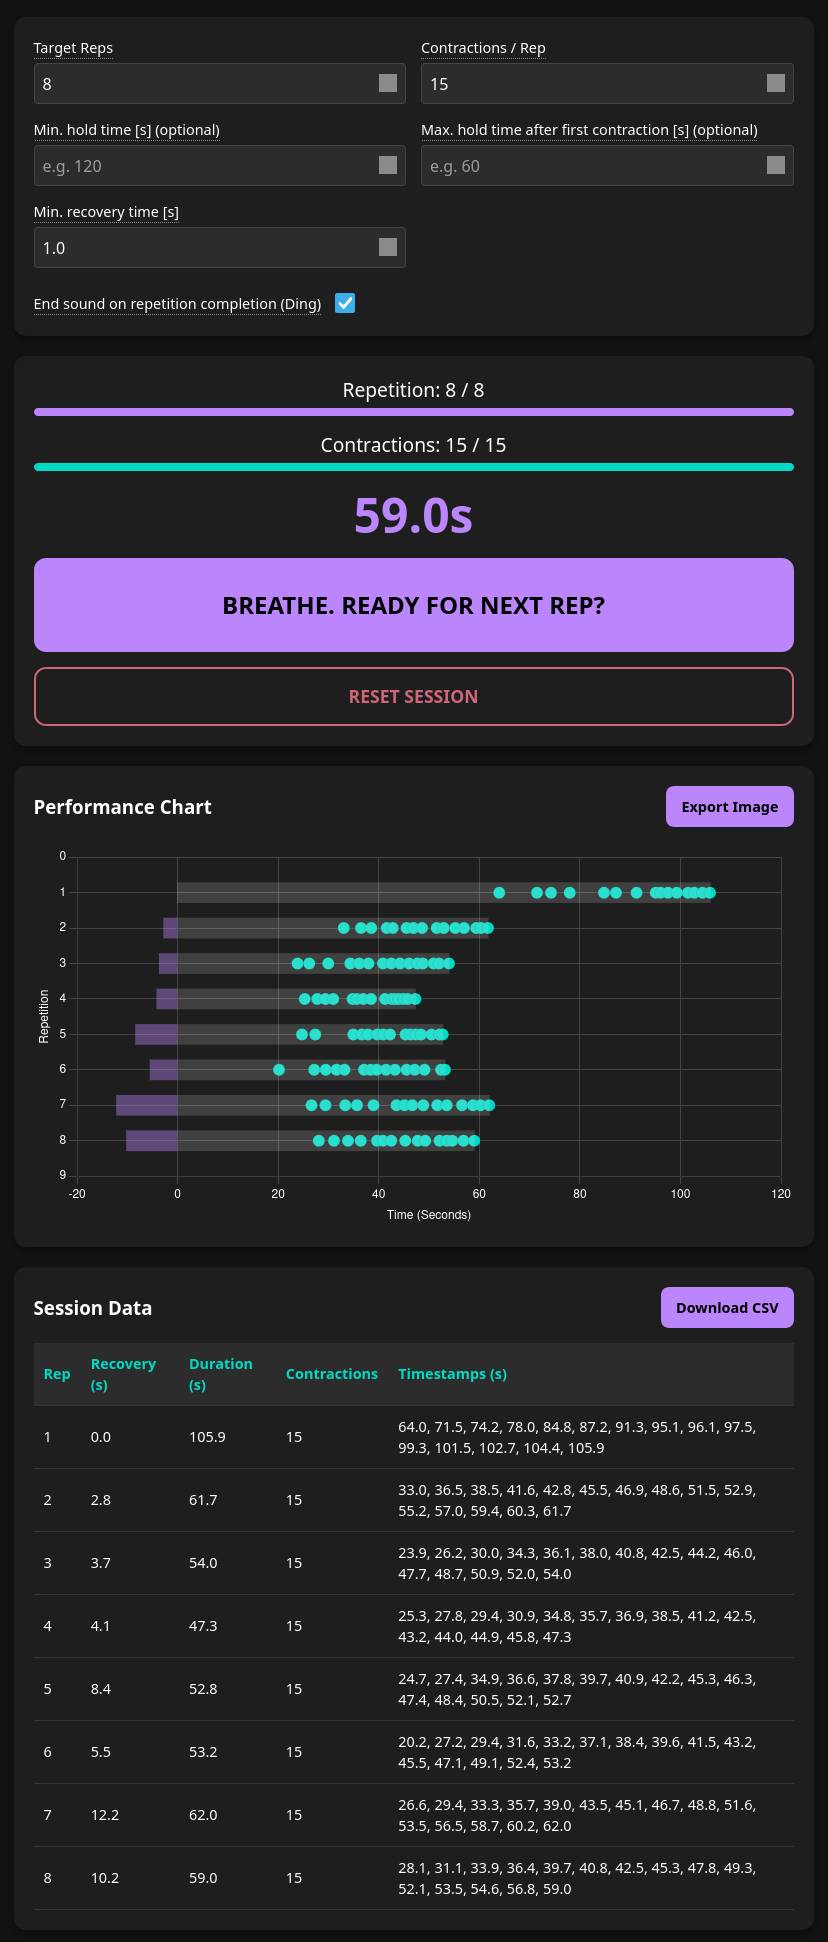
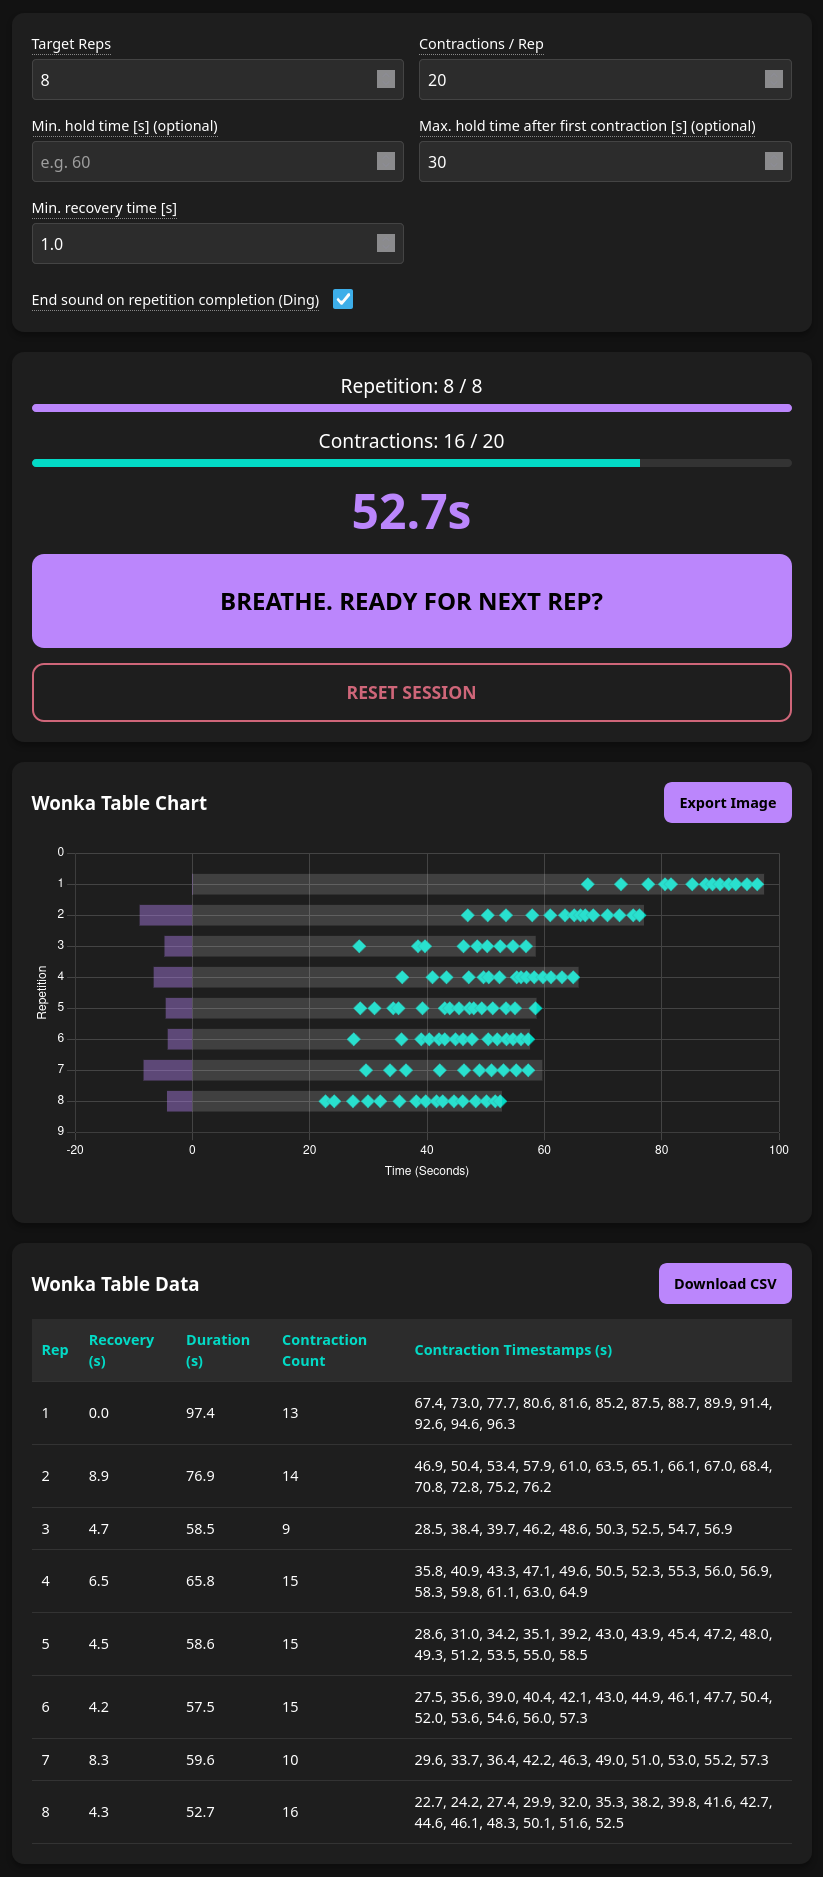
Mark contractions with diamonds; Include time in filenames; Let minimum hold time dominate max hold time after first contraction

diff --git a/index.html b/index.html
@@ -228,11 +228,11 @@
         <input type="number" id="target-contractions" value="25" min="1">
       </div>
       <div class="setting-group">
-        <label for="min-hold-time" class="help-label" title="The repetition won't automatically end until this duration is reached, even if you hit your target contractions.">Min. hold time [s] (optional)</label>
+        <label for="min-hold-time" class="help-label" title="The repetition won't automatically end until this duration is reached, even if you hit your target contractions or the max hold time after the first contraction has passed.">Min. hold time [s] (optional)</label>
         <input type="number" id="min-hold-time" placeholder="e.g. 60">
       </div>
       <div class="setting-group">
-        <label for="max-post-first" class="help-label" title="The repetition will automatically end this many seconds after your first logged contraction.">Max. hold time after first contraction [s] (optional)</label>
+        <label for="max-post-first" class="help-label" title="The repetition will automatically end this many seconds after your first logged contraction (unless the minimum hold time has not been met yet).">Max. hold time after first contraction [s] (optional)</label>
         <input type="number" id="max-post-first" placeholder="e.g. 60">
       </div>
       <div class="setting-group">
@@ -257,22 +257,24 @@
       <div class="timer" id="timer-display">0.0s</div>
       <div class="button-group">
         <button id="main-btn" class="btn-idle">Start Rep 1</button>
-        <button id="end-rep-btn" style="display: none;">End</button>
+        <button id="end-rep-btn" style="display: none;">End Rep</button>
       </div>
       <button id="reset-btn" style="display: none;">Reset Session</button>
     </div>
 
     <div class="card">
       <div style="display: flex; justify-content: space-between; align-items: center; margin-bottom: 10px;">
-        <h3 style="margin: 0;">Performance Chart</h3>
+        <h3 style="margin: 0;">Wonka Table Chart</h3>
         <button id="export-chart-btn" class="action-btn">Export Image</button>
       </div>
-      <canvas id="chart"></canvas>
+      <div id="chart-container" style="position: relative; width: 100%; height: 300px;">
+        <canvas id="chart"></canvas>
+      </div>
     </div>
 
     <div class="card">
       <div style="display: flex; justify-content: space-between; align-items: center;">
-        <h3 style="margin: 0;">Session Data</h3>
+        <h3 style="margin: 0;">Wonka Table Data</h3>
         <button id="download-csv-btn" class="action-btn">Download CSV</button>
       </div>
       <div class="data-table-container">
@@ -282,8 +284,8 @@
               <th>Rep</th>
               <th>Recovery (s)</th>
               <th>Duration (s)</th>
-              <th>Contractions</th>
-              <th>Timestamps (s)</th>
+              <th>Contraction Count</th>
+              <th>Contraction Timestamps (s)</th>
             </tr>
           </thead>
           <tbody>
@@ -409,6 +411,7 @@
         indexAxis: 'y', // Makes the bar chart render horizontally
         animation: false, // Disables all jumping/redrawing animations
         responsive: true,
+        maintainAspectRatio: false, // Allows dynamic vertical scaling for mobile
         scales: {
           x: { 
             type: 'linear',
@@ -501,7 +504,7 @@
 
     // Event Listener for CSV Download
     elements.downloadCsvBtn.addEventListener('click', () => {
-      let csv = "Repetition,Recovery (s),Duration (s),Contraction Count,Contraction Times (s)\n";
+      let csv = "Repetition,Recovery (s),Duration (s),Contraction Count,Contraction Timestamps (s)\n";
       
       sessionDurations.forEach((duration, index) => {
         const repData = sessionData[index] || [];
@@ -517,7 +520,7 @@
       const url = URL.createObjectURL(blob);
       const link = document.createElement("a");
       link.setAttribute("href", url);
-      link.setAttribute("download", `wonka_session_${new Date().toISOString().slice(0, 10)}.csv`);
+      link.setAttribute("download", `wonka_session_${datetimeFilename(new Date())}.csv`);
       document.body.appendChild(link);
       link.click();
       document.body.removeChild(link);
@@ -545,7 +548,7 @@
       const url = URL.createObjectURL(blob);
       const link = document.createElement('a');
       link.setAttribute('href', url);
-      link.setAttribute('download', `wonka_chart_${new Date().toISOString().slice(0, 10)}.png`);
+      link.setAttribute('download', `wonka_chart_${datetimeFilename(new Date())}.png`);
       document.body.appendChild(link);
       link.click();
       document.body.removeChild(link);
@@ -576,6 +579,10 @@
       
       updateChart();
       updateUI(targetReps, targetContractions);
+    }
+
+    function datetimeFilename(datetime) {
+      return datetime.toISOString().slice(0,19).replaceAll(':','-').replace('T','_');
     }
 
     function startHold(targetReps, targetContractions) {
@@ -622,7 +629,23 @@
       updateChart();
 
       const minHoldTime = parseFloat(elements.minHoldTime.value) || 0;
-      if (currentContractions >= targetContractions && elapsed >= minHoldTime) {
+      const maxPostFirst = parseFloat(elements.maxPostFirst.value) || Infinity;
+      
+      let shouldEnd = false;
+      
+      // Minimum Hold Time dominates: we only evaluate auto-ending if the min time has passed
+      if (elapsed >= minHoldTime) {
+        if (currentContractions >= targetContractions) {
+          shouldEnd = true;
+        } else if (firstContractionTime) {
+          const elapsedSinceFirst = (performance.now() - firstContractionTime) / 1000;
+          if (elapsedSinceFirst >= maxPostFirst) {
+            shouldEnd = true;
+          }
+        }
+      }
+
+      if (shouldEnd) {
         if (navigator.vibrate) navigator.vibrate([100, 50, 100]); // distinct finish vibration
         endRepetition();
       } else {
@@ -641,16 +664,15 @@
         
         let shouldEnd = false;
 
-        // Auto-end if target contractions met AND minimum hold time met
-        if (currentContractions >= targetContractions && elapsed >= minHoldTime) {
-          shouldEnd = true;
-        }
-
-        // Auto-end if max time after first contraction is exceeded
-        if (firstContractionTime) {
-          const elapsedSinceFirst = (performance.now() - firstContractionTime) / 1000;
-          if (elapsedSinceFirst >= maxPostFirst) {
+        // Minimum Hold Time dominates: we only evaluate auto-ending if the min time has passed
+        if (elapsed >= minHoldTime) {
+          if (currentContractions >= targetContractions) {
             shouldEnd = true;
+          } else if (firstContractionTime) {
+            const elapsedSinceFirst = (performance.now() - firstContractionTime) / 1000;
+            if (elapsedSinceFirst >= maxPostFirst) {
+              shouldEnd = true;
+            }
           }
         }
 
@@ -744,8 +766,9 @@
           label: `Rep ${index + 1}`,
           data: repData.map(time => ({ x: time, y: index + 1 })),
           backgroundColor: '#03dac6',
-          pointRadius: 6,
-          pointHoverRadius: 8
+          pointStyle: 'rectRot', // Renders as diamonds
+          pointRadius: 7,
+          pointHoverRadius: 9
         });
       });
 
@@ -753,8 +776,15 @@
       
       // Ensure the chart's Y-axis expands dynamically if the user does bonus reps beyond the target
       const targetReps = parseInt(elements.targetReps.value);
-      scatterChart.options.scales.y.max = Math.max(targetReps, sessionData.length) + 1;
+      const maxReps = Math.max(targetReps, sessionData.length);
+      scatterChart.options.scales.y.max = maxReps + 1;
       
+      // Dynamically scale the canvas container height to prevent overlap on mobile devices.
+      // 35px height per repetition allows for the 20px bar + a 15px gap. Plus 80px for the axes/padding.
+      const chartContainer = document.getElementById('chart-container');
+      const requiredHeight = Math.max(300, maxReps * 35 + 80);
+      chartContainer.style.height = `${requiredHeight}px`;
+
       scatterChart.update();
 
       renderTable();

diff --git a/Readme.md b/Readme.md
@@ -6,7 +6,12 @@ Instead of purely relying on the clock (as CO2 tables usually do), Wonka tables 
 
 This website tracks one of your Wonka table sessions, logging how long each breath hold was, how long your recovery time between breath hold repetitions is, and when exactly the contractions occurred for each repetition.
 (Tracking in the "keep track of" sense, not the way that is sadly popular on the internet nowadays. No data is sent to anyone.)
+
 All of this information is neatly visualized in a chart and also available in table format.
+
+Here an early session of mine:
+![Screenshot of an early wonka table session of mine; tracked by this tool.](screenshot.png)
+I'm sure you can do better. ;)
 
 Several parameters are configurable:
 
@@ -18,11 +23,10 @@ Several parameters are configurable:
 | Max. hold time after first contraction [s] (optional) | Delay the completion of a breath hold (repetition) at least this many seconds after the first contraction, even if you have already hit your contractions/rep goal. | Default: empty<br/>The blog mentions 45s and 60s. |
 | Min. recovery time [s] | Minimum duration of the recovery time between two consecutive breath holds in seconds. This mainly exists to prevent accidentally starting the next repetition without noticing that the previous one has been completed. | Default: 1.0s |
 
-Here is my first session:
-![Screenshot of my first wonka table; tracked by this tool.](screenshot.png)
-I'm sure you can do better. ;)
+Hint: On PC you can hit the space bar to trigger the main button.
 
 ---
 
 I have vibe-coded this tool for myself (using Gemini 3) since the stamina app locks wonka tables behind a paywall.
+
 Any improvement suggestions and bug reports are welcome.
